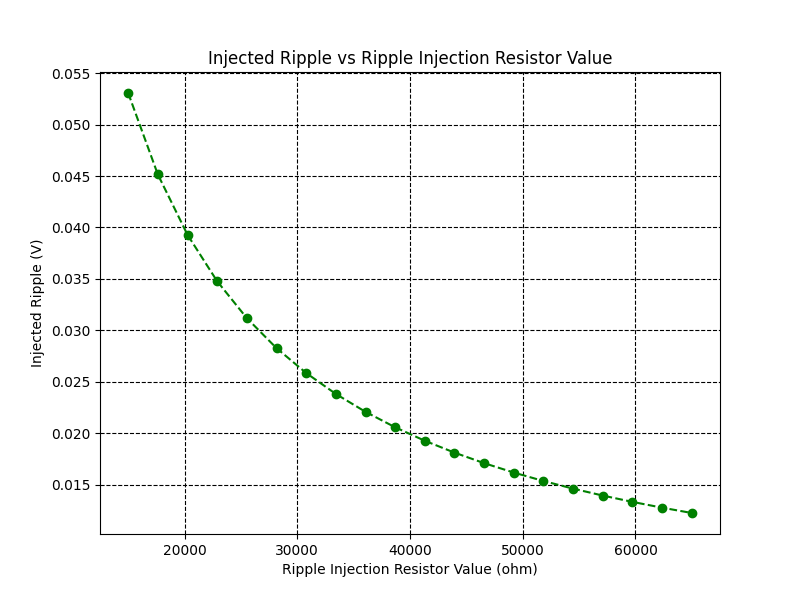
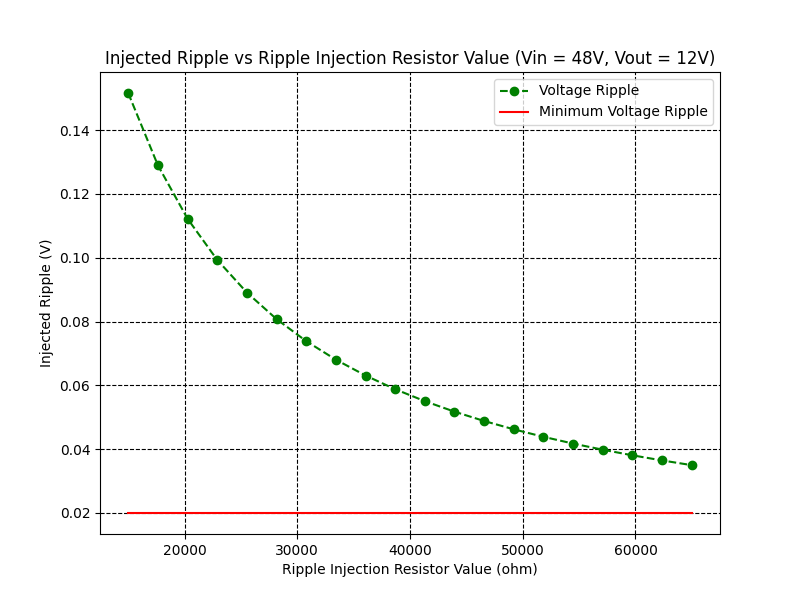
Added graphs and ran the calculations again

diff --git a/MIC28516 calculations/MIC28516 calcs new.py b/MIC28516 calculations/MIC28516 calcs new.py
@@ -16,7 +16,7 @@ def buck_12V():
     c_out = 330e-6
     esr_c_out = 14e-3
     feedforward_cap = 4.7e-9
-    ripple_resistor = 39e3
+    ripple_resistor = 56.2e3
     ripple_capacitor = 100e-9
     eff = 0.9
     winding_res = 1.9e-3
@@ -27,7 +27,7 @@ def buck_12V():
     
     buck_1.run_all_calcs_compare()
 
-    buck_1.input_voltage = 16.8
+    buck_1.input_voltage = 48
     set_ind = buck_1.inductance
 
     buck_1.run_all_calcs_compare(set_inductance = True, set_inductance_value = set_ind)
@@ -40,12 +40,18 @@ def buck_12V():
         buck_1.ripple_injection_calculations_given_components_known()
         listt = np.append(listt, buck_1.peak_to_peak_feedback_voltage_ripple_using_method_3)
 
+
+    element_list = listt.size
+    y_values = np.full(shape = element_list, fill_value = 0.02, dtype = float)
+
     fig, ax = plt.subplots(figsize = (4*2,3*2))
-    ax.plot(ripple_res, listt, color = 'green', linestyle = 'dashed', marker = 'o')
+    ax.plot(ripple_res, listt, color = 'green', linestyle = 'dashed', marker = 'o', label = 'Voltage Ripple')
+    ax.plot(ripple_res, y_values, color = 'red', linestyle = 'solid', label = "Minimum Voltage Ripple")
     ax.grid(True, color = 'k', linestyle = "--")
+    ax.legend()
     ax.set_xlabel("Ripple Injection Resistor Value (ohm)")
     ax.set_ylabel("Injected Ripple (V)")
-    ax.set_title("Injected Ripple vs Ripple Injection Resistor Value")
+    ax.set_title(f"Injected Ripple vs Ripple Injection Resistor Value (Vin = {buck_1.input_voltage}V, Vout = 12V)")
 
 
     plt.savefig("Injected Ripple vs Ripple Injection Resistor Value.png")
@@ -64,7 +70,7 @@ def buck_12V_1():
     c_out = 330e-6
     esr_c_out = 14e-3
     feedforward_cap = 4.7e-9
-    ripple_resistor = 39e3
+    ripple_resistor = 26.5e3
     ripple_capacitor = 100e-9
     eff = 0.9
     winding_res = 1.9e-3
@@ -133,7 +139,6 @@ def buck_3V3():
 
 
 def main():
-    buck_12V()
     buck_12V_1()
 
 
